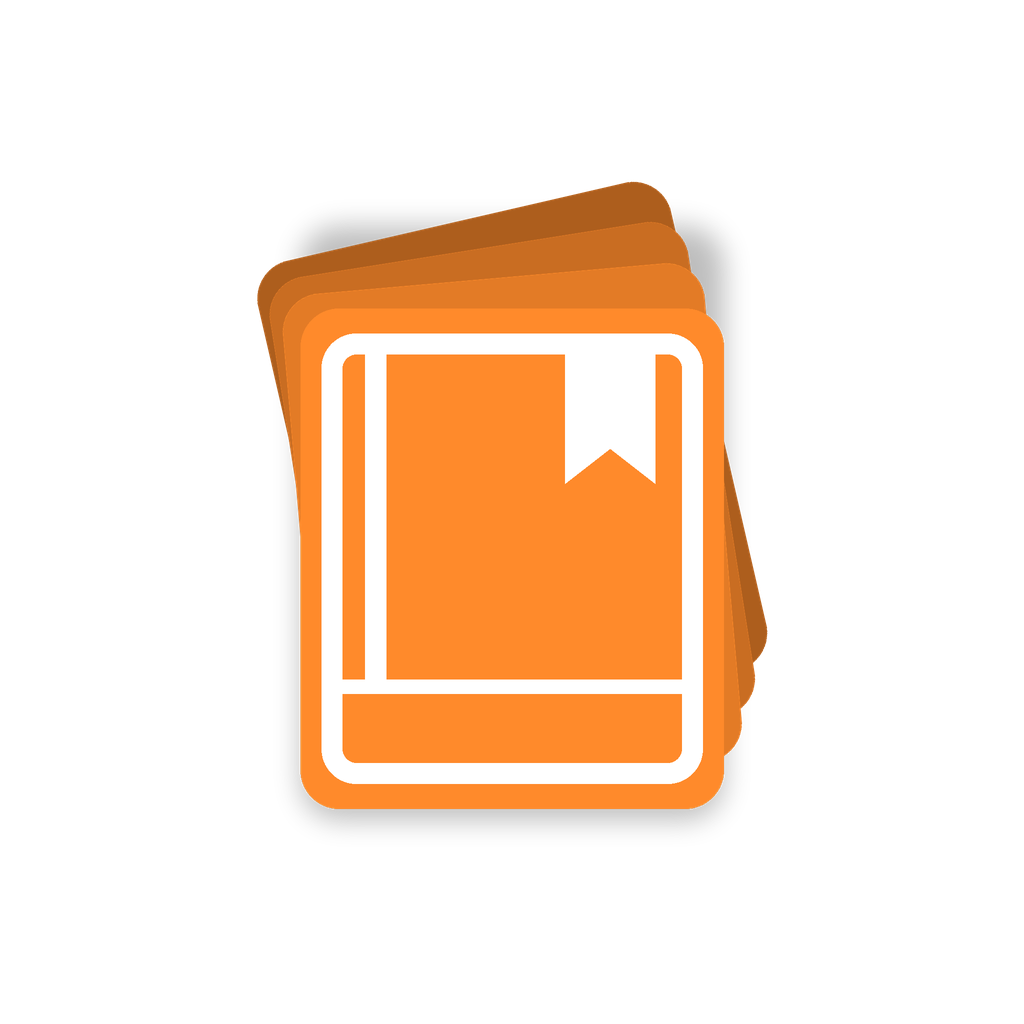
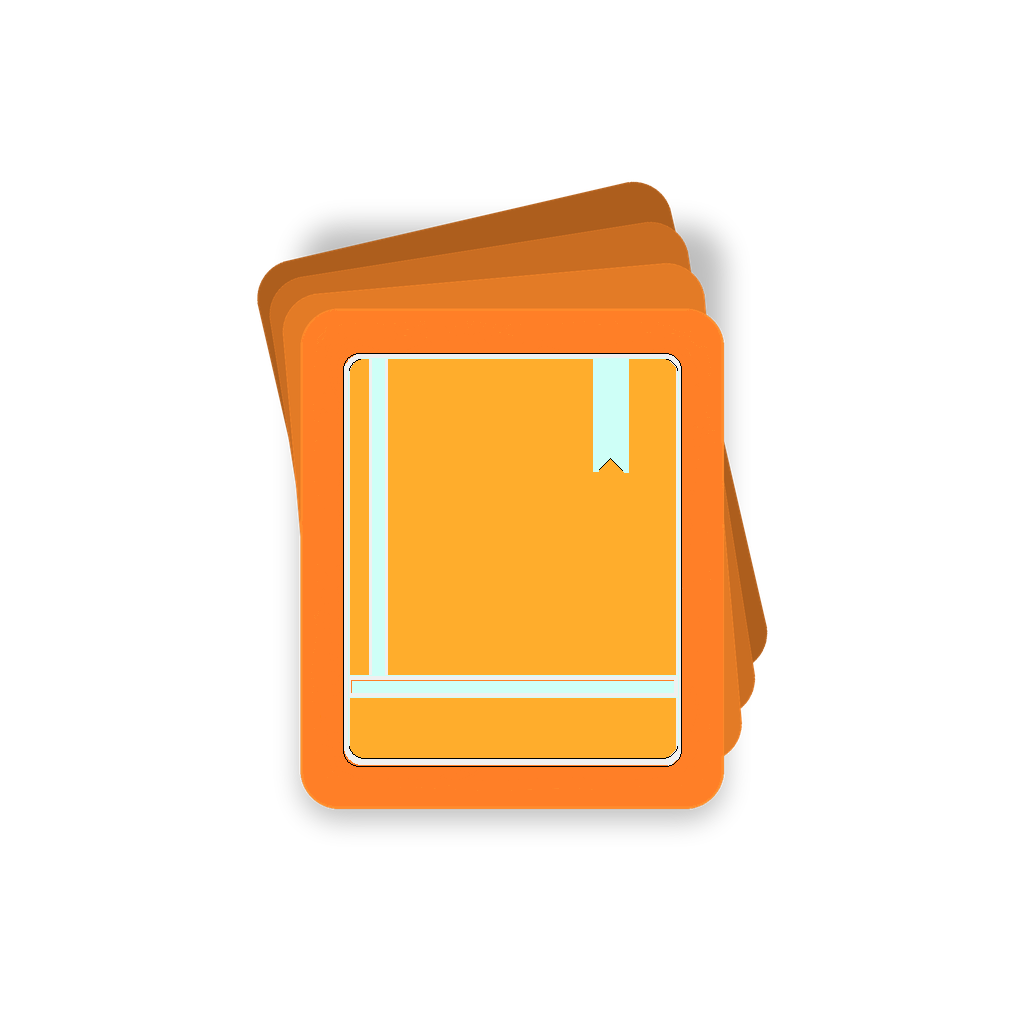
docs: 开场白补充参考项目、骨架选型与许可证约束
- 骨架定为 fork readest/readest（Tauri v2 + Next.js 16 + TS，AGPL-3.0），列出改造清单与关键路径
- 补齐核验过的参考项目清单：readest / read-aware / foliate-js / koodo / thorium / readium-css / epub.js / foliate / calibre / 月读 / Wenku8_Flutter
- 明确许可证红线：可复制的仅 MIT/BSD 系，GPL/AGPL 系只读设计
- 修正计划书里 EPUB 渲染内核的错标（Readium.js → foliate-js），并补 star/许可证
- icon: 采用人工修订后的最终图标

Changed region(s): [[0.3125, 0.3125, 0.6875, 0.7812]]

diff --git a/Scrollforge开发开场白模板-从环境搭建到核心锻造功能.md b/Scrollforge开发开场白模板-从环境搭建到核心锻造功能.md
@@ -1,51 +1,134 @@
 # Scrollforge 对话开场白
 
 > 用于 Trae 新会话的启动模板。直接复制粘贴即可开始对应开发。
+> 本文件顶部的「参考项目与骨架」是每次新会话必读的固定上下文——避免模型重新摸索、重复造轮子。
 
 ---
 
-## 模板 1：环境初始化（第一次启动 Tauri 项目）
+# 零、参考项目与骨架（先读这段）
+
+## 0.1 骨架选择：fork Readest，而不是从零搭
+
+**结论：Scrollforge 以 [readest/readest](https://github.com/readest/readest) 为骨架进行改造。**
+
+理由：它是 Foliate 的现代重写，技术栈与我们计划完全一致（Tauri v2 + Next.js 16 + React + TypeScript），已经实现了我们要从零写的大部分底层能力。
+
+| 项 | 值 |
+| --- | --- |
+| 仓库 | `readest/readest` |
+| 规模 | 约 2.57 万 star |
+| 技术栈 | Next.js 16 + Tauri v2 + TypeScript（monorepo） |
+| 许可证 | **AGPL-3.0** |
+| 已支持格式 | EPUB / PDF / MOBI / KF8(AZW3) / FB2 / CBZ / TXT / HTML / Markdown |
+| 已支持功能 | 滚动+翻页双模式、全文搜索（书内与全库）、高亮/书签/笔记、词典与维基查询、双栏并行阅读、字体排版与主题色定制、代码高亮、文件关联 |
+
+**改造清单（fork 后要做的减法与加法）**：
+
+| 动作 | 内容 |
+| --- | --- |
+| 减法 | 移除云端同步、订阅/商店相关模块；裁掉不需要的平台构建目标（先只留 Windows） |
+| 减法 | 清理原项目品牌（app 名、图标、About 页、官网链接、更新检查地址） |
+| 换装 | 替换 `src-tauri/icons/` 全套图标为仓库根目录的 `icon.png`；配色取自最终图标实测值：外框橙 `#E37B26`、书封内页 `#FFAD2C`、线条淡青白 `#CEFFF7` |
+| 加法 | 新增「锻造」编辑层：段落级改写、翻译替换、注释绑定、版本快照（本项目的差异化核心） |
+| 加法 | TXT 章节识别改用我们在 EPUB 转换里验证过的规则（`第X章` + 下一行 `---`） |
+
+**关键路径**（以仓库实际结构为准）：`apps/readest-app/src-tauri/`（Rust 端）、`apps/readest-app/src/`（前端）。
+
+> 备选路线（仅当不愿受 AGPL 约束时启用）：`create-tauri-app` 官方脚手架 → 渲染内核用 foliate-js(MIT) → 排版 CSS 用 readium/css(BSD-3)。这条路线授权最干净，但书架、进度、注释、搜索都要自己写。
+
+## 0.2 参考项目清单（已核验 star 与许可证）
+
+| 项目 | star | 语言 | 许可证 | 我们拿它做什么 |
+| --- | --- | --- | --- | --- |
+| `readest/readest` | 25.7k | TypeScript | AGPL-3.0 | **骨架**：整套 Tauri 阅读器架构直接改造 |
+| `johnfactotum/foliate-js` | 1.1k | JavaScript | **MIT** | **渲染内核**（自建路线）：EPUB/MOBI/KF8/FB2/CBZ/PDF，纯 JS、模块化、无硬依赖、不整本读入内存。官方建议以 git submodule 引入（无正式 release，API 会变） |
+| `koodo-reader/koodo-reader` | 28.6k | JavaScript | AGPL-3.0 | **UI/交互参照**：书架布局、阅读工具栏、主题系统。我们本机已安装，可直接对照真实交互 |
+| `ahpxex/read-aware` | 479 | TypeScript | AGPL-3.0 | **功能架构蓝本**：自进化 Agent 的跨书记忆 + 沙箱插件系统，正是我们要的「编辑/翻译/摘要」扩展形态 |
+| `vsh5dvsch7-png/yuedu`（月读） | 34 | HTML | NOASSERTION | **TXT 阅读体验参照**：章节识别、连续滚动、老板键、透明桌面模式 |
+| `edrlab/thorium-reader` | 2.9k | TypeScript | BSD-3-Clause | Readium 路线参照：无障碍、LCP、出版物元数据 |
+| `readium/css` | 127 | HTML | BSD-3-Clause | **可直接引入**：翻页/滚动分栏、主题变量的排版样式表 |
+| `futurepress/epub.js` | 7.0k | JavaScript | GitHub 标 NOASSERTION（须核对 LICENSE） | EPUB 渲染备选库，CFI 定位老牌实现 |
+| `johnfactotum/foliate` | 8.8k | JavaScript/GTK | GPL-3.0 | 功能与交互对照（Linux GTK 版，代码不能移植到 Windows） |
+| `kovidgoyal/calibre` | 26.3k | Python | GPL-3.0 | **脚注气泡交互参照**：`body.calibre-footnote-container` 那套弹窗脚注，我们最想要的那个特性 |
+| `mikufoxxx/Wenku8_Flutter` | 986 | Dart | GPL-2.0 | TXT 轻小说的章节识别与排版参照（TXT 章节规则、段落缩进） |
+
+## 0.3 许可证红线（每次涉及"抄代码"时必须遵守）
+
+- **可以复制/引入代码**：`foliate-js`（MIT）、`readium/css`（BSD-3）、`thorium-reader`（BSD-3）。保留版权声明即可。
+- **只能读、不能抄**：`readest`、`koodo-reader`（AGPL-3.0）、`calibre`、`foliate`（GPL-3.0）。GPL 系代码一旦进入我们的代码库，整个项目就被传染为 GPL。
+- **若 fork readest**：Scrollforge 整体即成为 AGPL-3.0 衍生作品——公开分发必须提供完整源码。我们的仓库本来就公开，这一点可以接受；但**不能**把 readest 的代码搬进 Celstack 这种非 AGPL 项目。
+- 跨项目共享想复用 readest 的 Rust 模块时，要么整个共享库也 AGPL，要么只参考写法、自己重写。
+
+## 0.4 当前优先级：先做 Scrollforge
+
+1. Scrollforge 优先启动（本机只有 Koodo Reader 可作真实交互对照，其余参考全靠上面列出的仓库）。
+2. Celstack 暂缓，等 Scrollforge 的 `db / ai / config` 基建跑通后再启动，避免两套地基各写一遍。
+
+## 0.5 ReadAware 与月读（更正：两者都真实存在，且是重要参照）
+
+早期文档一直提到 ReadAware 和月读，我用搜索接口查不到，一度误判为不存在——实际是仓库名带连字符（`read-aware`），搜索结果里被拆词了。直接按仓库地址核验后确认：
+
+| 项目 | star | 语言 | 许可证 | 定位 | 我们拿它做什么 |
+| --- | --- | --- | --- | --- | --- |
+| `ahpxex/read-aware` | 479 | TypeScript | AGPL-3.0 | 带「自进化 Agent」的阅读器：跨书阅读记忆、沙箱插件系统、EPUB/MOBI/AZW3/FB2/PDF 全离线；monorepo（`apps/` 分层） | **功能架构蓝本**：Agent 记忆层与插件系统的设计直接照它，比 readest 更接近我们「阅读 + 编辑 + 翻译 + 摘要」的设想 |
+| `vsh5dvsch7-png/yuedu`（月读） | 34 | HTML | NOASSERTION | Windows 桌面小说阅读器：透明桌面模式、老板键、txt/epub、章节定位、自定义书源 | **TXT 阅读体验参照**：章节识别、连续滚动、老板键这三项 |
+
+结论不变：**骨架仍选 readest**（成熟度与维护活跃度优先），ReadAware 作为 Agent/插件层的架构参照，月读作为 TXT 阅读体验参照。
+
+---
+
+## 模板 1：环境初始化（fork Readest 骨架）
 
 ```
-我要启动 Scrollforge 项目开发。先帮我检查本地 Tauri v2 开发环境（Rust / Node / pnpm / VS Code Tauri 插件），然后用官方脚手架在当前目录初始化一个最小的 Tauri v2 + React + Vite 项目骨架。参考 ReadAware 的技术选型。
+我要启动 Scrollforge 项目开发，骨架是 fork readest/readest（Tauri v2 + Next.js 16 + React + TypeScript，AGPL-3.0）。请按顺序做：
+1. 检查本地环境：Rust（含 MSVC 工具链）、Node 20+、pnpm、WebView2 运行时
+2. 把 readest 克隆到 D:\AI Coding Project Management\Scrollforge\app，保留上游 git 历史，单独加 remote upstream
+3. 只保留 Windows 构建目标，移除其他平台的构建脚本
+4. 全局替换项目品牌：app 名 Scrollforge、标识符 com.scrollforge.app、图标替换为仓库根目录的 icon.png
+5. 移除云端同步与订阅/商店相关模块，确认移除后能正常编译
+6. 跑起来，确认能打开一本 EPUB 并翻页
+
+注意：readest 是 AGPL-3.0，本项目按 AGPL-3.0 开源，不要把它当成可闭源使用的依赖。
 ```
 
 ## 模板 2：Phase 1 功能开发（书架 + TXT 阅读器）
 
 ```
-Scrollforge Phase 1：在已有的 Tauri v2 + React 骨架上，开发最小可用的 TXT 阅读器。需求：
-1. 书架页面（左侧列表 + 右侧空态引导）
-2. 本地导入 TXT 文件（drag & drop + 文件选择）
-3. TXT 章节识别（第X章 + --- 分隔线，复用之前 EPUB 转换验证过的正则）
-4. 阅读器页面：连续滚动、段落级渲染（每行一句独立 <p>）、字体/行距/缩进调整
-5. SQLite 存书架 + 进度（rusqlite，React 端用 Tauri invoke 桥接）
+Scrollforge Phase 1：在 readest 骨架上补齐 TXT 阅读链路。需求：
+1. 书架页面：复用 readest 现有书架，只补 TXT 格式的卡片样式与封面占位
+2. 本地导入 TXT（drag & drop + 文件选择）：接 readest 现有的文件导入通道
+3. TXT 章节识别：换成本项目已验证的规则——`第X章` 标题行 **且下一行是 `---` 分隔线**，配 4000 字前向窗口扫描，清理标题里的方括号
+4. 阅读器页面：连续滚动、段落级渲染（每个非空行一个独立 <p>，不要把多行合并成段）、字体/行距/缩进调整（复用 readest 的排版设置面板）
+5. 进度存 SQLite（readest 的 Rust 端已有数据库层，沿用其封装，不要另起一套）
 
-参考项目：ReadAware（整体架构）、月读（TXT 章节识别）
+参考项目：readest（书架与进度实现，同仓库直接读）、foliate-js（TXT/EPUB 解析接口设计，MIT）、Wenku8_Flutter（轻小说 TXT 的章节切分与缩进处理，仅读不抄，GPL-2.0）
 ```
 
 ## 模板 3：Calibre 风格脚注气泡
 
 ```
 Scrollforge Phase 2：实现 Calibre 风格的脚注气泡功能。需求：
-1. 渲染 EPUB 时，检测所有 <a.footnote> 和引用脚注的 <a> 标签
-2. 点击脚注引用时，preventDefault，在视口中央弹出一个 fixed DIV 气泡
-3. 气泡内显示脚注原文（从 <ol class="footnotes"> 或 <div id="footnotes"> 中提取）
-4. 点击气泡外部关闭，或按 ESC 关闭
-5. 气泡样式：圆角半透明白底、阴影、最大高度 60vh 可滚动
+1. 拦截脚注点击：在渲染框架的 document 上监听 `a[epub\:type~="noteref"]`、`a.footnote`、href 指向 `#` 的锚点，preventDefault 阻止跳转
+2. 从目标节点取脚注原文：优先 `<aside epub:type="footnote">`，退化为 `<ol class="footnotes">` / `<div id="footnotes">` 里的对应条目
+3. 在视口中央弹出 fixed 气泡显示原文，最大高度 60vh 可滚动，圆角半透明白底 + 阴影
+4. 点气泡外部或按 ESC 关闭；连续点击多个脚注时替换内容而不是叠层
+5. 注意：foliate-js / readest 用 iframe 渲染正文，气泡 DOM 要挂在宿主页面而不是 iframe 内，否则会被 iframe 裁剪或裁掉
 
-参考 Calibre CSS：body.calibre-footnote-container a.footnote
+参考 Calibre（GPL-3.0，**只读实现、不抄代码**）：`body.calibre-footnote-container a.footnote` 那套拦截 + 内联弹窗思路；它的做法是把脚注内容插进一个绝对定位容器，而不是跳转到书末。
 ```
 
-## 模板 4：EPUB 渲染接入 Readium.js
+## 模板 4：渲染内核与进度定位确认
 
 ```
-Scrollforge：接入 Readium.js 实现 EPUB 3 标准渲染。需求：
-1. 把 epub.js（Readium 官方 JS 库）作为前端依赖
-2. 实现 React 组件 EpubReader，props 接收 EPUB 文件路径
-3. 支持 CFI 定位（段落级进度记忆）
-4. 目录导航桥接到书架侧栏
-5. 支持 Readium 的 theme API（高亮/注释等扩展点）
+Scrollforge：先确认渲染内核，再动进度定位。
+1. 如果走 fork readest 路线：内核已经是 foliate-js 的工程化版本，不要另行接入 epub.js 或 Readium，避免两套渲染器打架
+2. 如果走自建路线：渲染内核选 foliate-js（MIT，纯 JS，支持 EPUB/MOBI/KF8/FB2/CBZ/PDF），以 git submodule 引入；排版样式直接引 readium/css（BSD-3）
+3. 进度定位统一用 CFI：记录到段落级，不要只存滚动像素，窗口尺寸变化后像素会失效
+4. 目录导航桥接到左侧栏；章节树从 NCX 和 nav.xhtml 双向读取，取得到哪个用哪个
+5. 主题切换要能同时作用于正文 iframe 与外壳 UI
 ```
+
+> 说明：`epub.js` 不是 Readium 官方库，它是独立项目（futurepress），许可证在 GitHub 上标记为 NOASSERTION，引入前必须核对 LICENSE 文件。Readium 的 JS 路线对应的是 `readium/css`（样式表）与 `edrlab/thorium-reader`（Electron 实现）。
 
 ## 模板 5：文本编辑与翻译（锻造核心）
 
@@ -56,6 +139,8 @@ Scrollforge Phase 3：实现"锻造"核心——文本编辑功能。需求：
 3. 翻译：选中段落 → 调用 AI API → 返回译文 → 确认替换
 4. 注释：选中段落 → 写注释 → 和段落 ID 绑定，脚注气泡形式显示
 5. 版本管理：每次修改都保存快照，可回滚
+
+参考 ahpxex/read-aware（AGPL-3.0，只读设计不抄代码）：它的插件系统是"同时扩展阅读器与 Agent"的双向扩展点，插件能注册工具给 Agent 调用——我们的"锻造"层可以照这个形状设计：每个编辑动作（改错字/统一人名/加注释）都做成可被 AI 调用的工具，而不是写死一个按钮。
 ```
 
 ## 模板 6：格式转换（TXT → EPUB）
@@ -92,6 +177,17 @@ Scrollforge：设计完整的 SQLite 数据库 Schema。需要覆盖：
 5. 给出改进建议
 ```
 
+## 模板 9：对照本机 Koodo Reader 的真实交互
+
+```
+Scrollforge：本机装了 Koodo Reader，帮我用它作为真实交互对照，逐项比对并出改进清单：
+1. 书架页：分组方式、排序、封面网格密度、右键菜单项
+2. 阅读器：顶部/底部工具栏的按钮集合、翻页热区、快捷键
+3. 设置面板：字体、行距、页边距、主题的调节粒度
+4. 脚注/注解的呈现方式
+只做交互与信息层级的对照，不要反编译或复制其代码（Koodo 是 AGPL-3.0）。
+```
+
 ---
 
 ## 跨项目模板：和 Celstack 统一基建
@@ -101,4 +197,6 @@ Scrollforge 和 Celstack 共用 Tauri v2 + React + Rust + SQLite 基建。帮我
 1. Rust 端：db (rusqlite 封装)、ai (AI API 桥接)、config (用户设置)
 2. 前端：hooks (useSettings / useAI / useDB)、components (SettingsPanel / AIModal)
 3. 设计为 npm workspace 或 git submodule，两个项目都能引用
+
+许可证约束：共享库必须是独立重写的代码。若直接搬 readest 的 Rust 模块，共享库会一起变成 AGPL-3.0，Celstack 也会被传染——所以共享层只允许参考写法，不允许复制代码。
 ```

diff --git a/Scrollforge项目开发计划书-功能路线图与技术选型.md b/Scrollforge项目开发计划书-功能路线图与技术选型.md
@@ -37,22 +37,26 @@ Scrollforge 是一款面向深度阅读者的电子书阅读器。名字来自 *
 | 层 | 选择 | 理由 |
 |----|------|------|
 | **桌面壳** | Tauri v2 | 安装包 ~10MB，内存 ~50MB，Rust 安全，比 Electron 轻 15 倍 |
-| **前端** | React 19 + Vite | 活生态，组件多，比 Next.js 轻 |
+| **前端** | Next.js 16 + React 19 + TypeScript（沿用骨架） | 骨架 readest 就是这套；如果要自建则退化为 React + Vite |
 | **后端** | Rust | 格式解析性能；SQLite (rusqlite)；搜索 (tantivy) |
-| **格式解析** | Rust 自写 EPUB/MOBI + Python 备用 | Readest 已有先例 |
-| **EPUB 渲染** | Readium.js | Web Components，EPUB 3 标准实现 |
+| **格式解析** | 骨架自带（Readest 已支持 EPUB/MOBI/KF8/FB2/CBZ/TXT/PDF） | 不重写解析器 |
+| **EPUB 渲染** | foliate-js（Readest 的渲染内核即源于此） | 纯 JS、模块化、MIT；**不是 Readium.js** |
 | **数据库** | SQLite (rusqlite) | 本地优先，零配置 |
 | **AI 后端** | Rust + HTTP API | 可切换本地模型 / 云端 API |
 
-### 可参考的开源骨架
+### 可参考的开源骨架（已核验 star 与许可证）
 
-| 项目 | 参考什么 | GitHub |
-|------|----------|--------|
-| **ReadAware** | Tauri + React + Rust + SQLite 整体架构 | `ahpxex/read-aware` |
-| **Readest** | Rust 格式解析 (epub_parser / mobi_parser) | `readest/readest` |
-| **Calibre** | 脚注气泡 CSS 交互模式 | Python + Qt，**不要重写** |
-| **月读 yuedu** | TXT 章节识别、连续滚动、段落级进度记忆 | `vsh5dvsch7-png/yuedu` |
-| **Koodo Reader** | React 前端架构成熟实践 | `koodo-reader/koodo-reader` |
+| 项目 | star | 许可证 | 参考什么 | GitHub |
+|------|------|--------|----------|--------|
+| **Readest** | 25.7k | AGPL-3.0 | **主骨架**：Tauri v2 + Next.js 16 + TS 整套工程，直接 fork 改造 | `readest/readest` |
+| **ReadAware** | 479 | AGPL-3.0 | 功能架构蓝本：自进化 Agent 的跨书记忆 + 沙箱插件系统 | `ahpxex/read-aware` |
+| **foliate-js** | 1.1k | **MIT** | 渲染内核备选（自建路线），可直接引入 | `johnfactotum/foliate-js` |
+| **Calibre** | 26.3k | GPL-3.0 | 脚注气泡交互模式（只读，Python + Qt，**不要重写**） | `kovidgoyal/calibre` |
+| **月读 yuedu** | 34 | NOASSERTION | TXT 章节识别、连续滚动、段落级进度记忆、老板键 | `vsh5dvsch7-png/yuedu` |
+| **Koodo Reader** | 28.6k | AGPL-3.0 | React 前端架构成熟实践；本机已装可对照交互 | `koodo-reader/koodo-reader` |
+| **Readium CSS** | 127 | BSD-3-Clause | 排版样式表，可直接引入 | `readium/css` |
+
+> 许可证红线：可复制代码的只有 foliate-js(MIT)、readium/css(BSD-3)、thorium-reader(BSD-3)；Readest / ReadAware / Koodo / Calibre 均为 AGPL 或 GPL，只能读设计、不能抄代码。fork Readest 意味着 Scrollforge 整体按 AGPL-3.0 开源。
 
 ---
 
